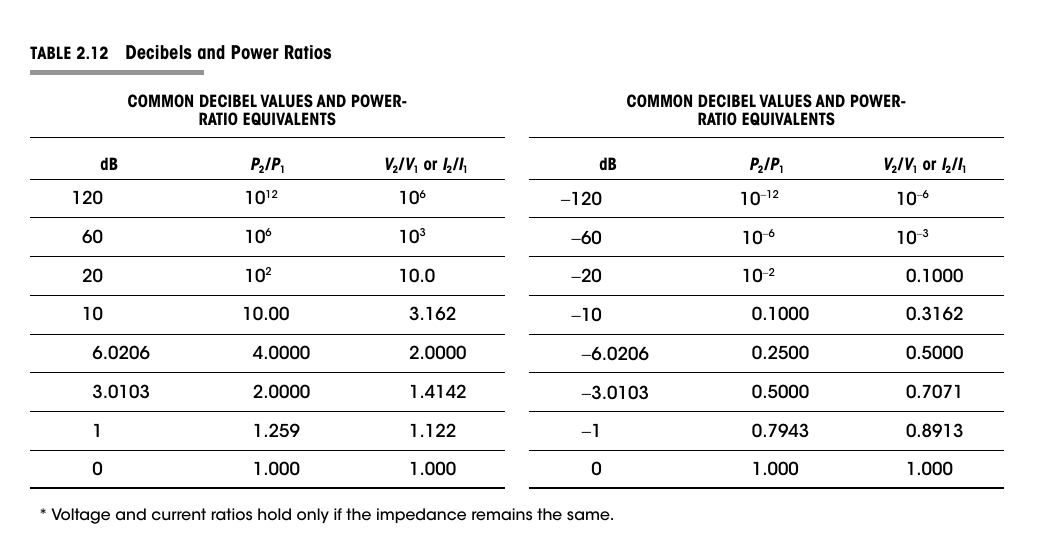
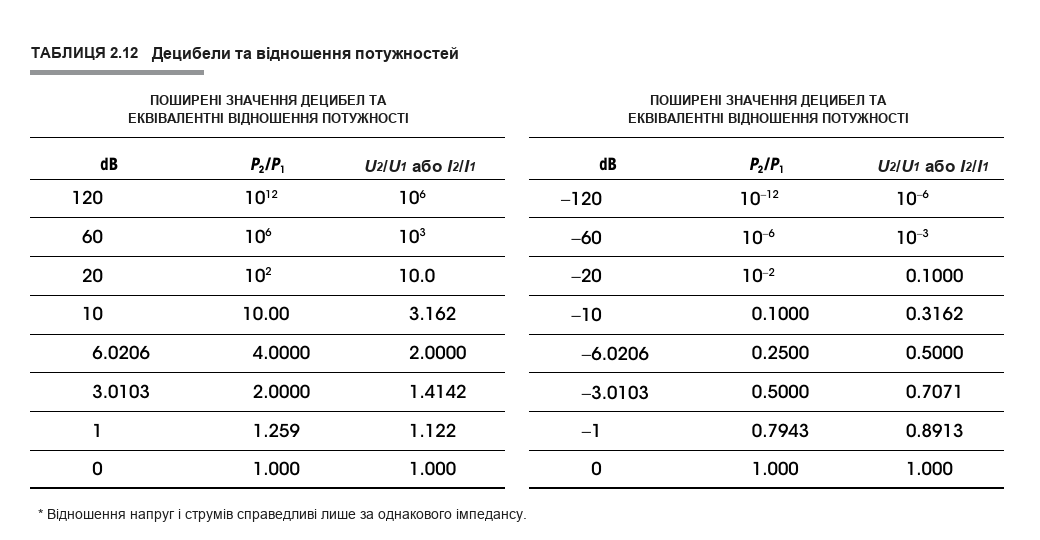
2.31: перевірка перекладу (пропуски, уточнення), переклад таблиці 2.12, V→U

diff --git a/Електроніка/2.31 Децибели.md b/Електроніка/2.31 Децибели.md
@@ -7,18 +7,18 @@
 В електроніці часто доводиться порівнювати відносні амплітуди або відносні потужності двох сигналів. Наприклад, якщо вихідна напруга підсилювача в 10 разів більша за вхідну, можна записати відношення
 
 $$
-\frac{V_{out}}{V_{in}}=\frac{10\,\mathrm{VAC}}{1\,\mathrm{VAC}}=10
+\frac{U_{out}}{U_{in}}=\frac{10\,\mathrm{VAC}}{1\,\mathrm{VAC}}=10
 $$
 
 і дати йому спеціальну назву — **підсилення**. Якщо вихідна напруга пристрою у 10 разів менша за вхідну, коефіцієнт підсилення буде меншим за 1:
 
 $$
-\frac{V_{out}}{V_{in}}=\frac{1\,\mathrm{VAC}}{10\,\mathrm{VAC}}=0.10.
+\frac{U_{out}}{U_{in}}=\frac{1\,\mathrm{VAC}}{10\,\mathrm{VAC}}=0.10.
 $$
 
 У цьому випадку відношення називають **ослабленням**.
 
-Відношення для порівняння сигналів або потужностей використовують постійно, і не лише в електроніці. Але інколи діапазон відношень амплітуд чи потужностей стає незручно великим. Наприклад, людське вухо сприймає інтенсивність звуку — середню потужність на одиницю площі повітряної хвилі — приблизно від $10^{-12}$ до $1\,\mathrm{W/m^2}$. Побудувати звичайний лінійний графік інтенсивності залежно, скажімо, від відстані між вухом і гучномовцем складно, особливо якщо точки лежать на протилежних кінцях шкали: роздільна здатність стає неприйнятною. Можна використати спеціальний логарифмічний папір або спершу логарифмічно «стиснути» числа й залишити звичайну лінійну шкалу. Для цього застосовують децибели.
+Відношення для порівняння сигналів або потужностей використовують постійно, і не лише в електроніці. Але інколи діапазон відношень амплітуд чи потужностей стає незручно великим. Наприклад, людське вухо сприймає інтенсивність звуку — середню потужність на одиницю площі повітряної хвилі — приблизно від $10^{-12}$ до $1\,\mathrm{W/m^2}$. Побудувати звичайний лінійний графік інтенсивності залежно, скажімо, від відстані між вухом і гучномовцем складно, особливо якщо точки лежать на протилежних кінцях шкали: роздільна здатність стає неприйнятною. Можна використати спеціальний логарифмічний папір, який автоматично усуває цю проблему, або спершу логарифмічно «стиснути» числа й залишити звичайну лінійну шкалу. Для цього застосовують децибели.
 
 Почнемо з **бела**. Бел визначають як десятковий логарифм відношення потужностей. Він дає змогу порівнювати два рівні потужності або певний рівень з опорним:
 
@@ -28,7 +28,7 @@ $$
 
 де $P_0$ — опорна потужність, а $P_1$ — потужність, яку з нею порівнюють.
 
-В електроніці бел можна використовувати для порівняння електричних потужностей, однак значно частіше застосовують **децибел**, скорочено dB. Один децибел дорівнює $1/10$ бела; десять децибелів утворюють один бел. Тому відношення потужностей у децибелах дорівнює
+В електроніці бел можна використовувати для порівняння електричних потужностей, однак значно частіше застосовують **децибел**, скорочено dB. Один децибел дорівнює $1/10$ бела (як міліметр — $1/10$ сантиметра); десять децибелів утворюють один бел. Тому відношення потужностей у децибелах дорівнює
 
 $$
 \mathrm{dB}=10\log_{10}\left(\frac{P_1}{P_0}\right). \tag{2.89}
@@ -50,14 +50,14 @@ $$
 Іноді під час порівняння рівнів сигналу відомі напруга або струм, але не потужність. Потужність можна обчислити за імпедансом, однак зручніше підставити закон Ома для змінного струму безпосередньо у формулу децибелів. Нагадаємо:
 
 $$
-P=\frac{V^2}{Z}=I^2Z.
+P=\frac{U^2}{Z}=I^2Z.
 $$
 
 Такий перехід справедливий лише тоді, коли імпеданс кола не змінюється між двома вимірюваннями. За однакового імпедансу для напруги маємо
 
 $$
-\mathrm{dB}=10\log_{10}\left(\frac{V_1^2}{V_0^2}\right)
-=20\log_{10}\left(\frac{V_1}{V_0}\right),
+\mathrm{dB}=10\log_{10}\left(\frac{U_1^2}{U_0^2}\right)
+=20\log_{10}\left(\frac{U_1}{U_0}\right),
 $$
 
 а для струму
@@ -70,18 +70,18 @@ $$
 Тут використано властивості логарифмів, щоб винести квадрат:
 
 $$
-10\log_{10}\left(\frac{V_1^2}{V_0^2}\right)
-=10(\log_{10}V_1^2-\log_{10}V_0^2)
+10\log_{10}\left(\frac{U_1^2}{U_0^2}\right)
+=10(\log_{10}U_1^2-\log_{10}U_0^2)
 $$
 
 $$
-=10(2\log_{10}V_1-2\log_{10}V_0)
-=20\log_{10}\left(\frac{V_1}{V_0}\right).
+=10(2\log_{10}U_1-2\log_{10}U_0)
+=20\log_{10}\left(\frac{U_1}{U_0}\right).
 $$
 
 Імпеданси скорочуються, а множник перед логарифмом стає удвічі більшим саме через квадрати. Формули для потужності, напруги й струму фундаментально однакові: усі вони походять від відношення потужностей.
 
-Є кілька співвідношень, які варто навчитися впізнавати без калькулятора. Якщо потужність подвоюється, кінцева потужність завжди у 2 рази більша за початкову — незалежно від того, чи це перехід від 1 до 2 W, від 40 до 80 W або від 500 до 1000 W. У децибелах:
+Є кілька співвідношень, які варто навчитися впізнавати без калькулятора. Якщо потужність подвоюється, кінцева потужність завжди у 2 рази більша за початкову (або опорну) — незалежно від того, чи це перехід від 1 до 2 W, від 40 до 80 W або від 500 до 1000 W. У децибелах:
 
 $$
 10\log_{10}(2)=3.01\,\mathrm{dB}.
@@ -89,21 +89,21 @@ $$
 
 Отже, подвоєння вихідної потужності означає підсилення $3.01\,\mathrm{dB}$. Зазвичай сотими нехтують і кажуть просто **збільшення на 3 dB**.
 
-Якщо потужність зменшити вдвічі, відношення завжди дорівнює $0.5$, незалежно від конкретних ватів:
+Якщо потужність зменшити вдвічі, відношення завжди дорівнює $0.5$ (або $1/2$); неважливо, чи це перехід від 1000 до 500 W, від 80 до 40 W або від 2 до 1 W — відношення все одно $0.5$. У децибелах:
 
 $$
 10\log_{10}(0.5)=-3.01\,\mathrm{dB}.
 $$
 
-Знак «мінус» указує на зменшення потужності. На практиці кажуть «зміна $-3\,\mathrm{dB}$» або, логічніше, «зменшення на $3\,\mathrm{dB}$» — слово «зменшення» вже передає знак.
+Знак «мінус» указує на зменшення потужності. І знову ж таки, сотими частками зазвичай нехтують і кажуть «зміна $-3\,\mathrm{dB}$» або, логічніше, «зменшення на $3\,\mathrm{dB}$» — слово «зменшення» вже передає знак.
 
-Якщо потужність збільшилася в 4 рази, формулу можна не обчислювати: це два послідовні подвоєння,
+Якщо потужність збільшити в 4 рази, можна обійтися без формули децибелів і просто вважати це двома послідовними подвоєннями:
 
 $$
 3.01+3.01=6.02\,\mathrm{dB}\approx6\,\mathrm{dB}.
 $$
 
-Далі в оригіналі сказано: якщо збільшити потужність у 8 разів, це нібито чотири подвоєння, тому
+Так само, якщо збільшити потужність у 8 разів, то фактично вона подвоюється чотири рази, тому відношення в децибелах дорівнює
 
 $$
 3.01\times4=12.04\,\mathrm{dB}\approx12\,\mathrm{dB}.
@@ -112,19 +112,17 @@ $$
 > [!warning] Помилка в оригіналі
 > Це твердження підручника помилкове: $8=2^3$, тому збільшення у 8 разів — три подвоєння, а правильне значення дорівнює $3.01\times3=9.03\,\mathrm{dB}$. Чотири подвоєння дають множник $16$ і приблизно $12.04\,\mathrm{dB}$.
 
-Те саме стосується зменшення. Кожне ділення потужності навпіл — це приблизно $-3\,\mathrm{dB}$. Зменшення у 4 рази дорівнює двом послідовним діленням навпіл, тобто
+Те саме стосується зменшення. Кожне ділення потужності навпіл — це приблизно $-3\,\mathrm{dB}$. Зменшення потужності в 4 рази подібне до двох послідовних ділень навпіл, тобто $3.01+3.01\,\mathrm{dB}=6.02\,\mathrm{dB}$, або приблизно $6\,\mathrm{dB}$ зменшення. І тут можна не вживати слово «зменшення», а просто сказати, що зміна становить $-6\,\mathrm{dB}$.
 
-$$
--3.01-3.01=-6.02\,\mathrm{dB}\approx-6\,\mathrm{dB}.
-$$
-
-Таблиця 2.12 показує відповідність між поширеними значеннями децибелів і змінами потужності, напруги та струму. Відношення напруг і струмів справедливі лише за однакового імпедансу.
+Таблиця 2.12 показує відповідність між кількома поширеними значеннями децибелів і пов’язаною з ними зміною потужності. Зміни струму й напруги також наведено, але вони справедливі лише тоді, коли імпеданс однаковий для обох значень.
 
 ![[Зображення/Розділ 2/Таблиця 2.12 Децибели та відношення потужностей.png]]
 
 #### Таблиця 2.12. Децибели та відношення потужностей
 
-| dB | $P_2/P_1$ | $V_2/V_1$ або $I_2/I_1$ | dB | $P_2/P_1$ | $V_2/V_1$ або $I_2/I_1$ |
+**Поширені значення децибел та еквівалентні відношення потужності**
+
+| dB | $P_2/P_1$ | $U_2/U_1$ або $I_2/I_1$ | dB | $P_2/P_1$ | $U_2/U_1$ або $I_2/I_1$ |
 |---:|---:|---:|---:|---:|---:|
 | 120 | $10^{12}$ | $10^6$ | -120 | $10^{-12}$ | $10^{-6}$ |
 | 60 | $10^6$ | $10^3$ | -60 | $10^{-6}$ | $10^{-3}$ |
@@ -134,6 +132,8 @@ $$
 | 3.0103 | 2.0000 | 1.4142 | -3.0103 | 0.5000 | 0.7071 |
 | 1 | 1.259 | 1.122 | -1 | 0.7943 | 0.8913 |
 | 0 | 1.000 | 1.000 | 0 | 1.000 | 1.000 |
+
+\* Відношення напруг і струмів справедливі лише за однакового імпедансу.
 
 ### 2.31.1 Альтернативні позначення децибелів
 
@@ -154,7 +154,7 @@ $$
 - **dBV** — напруга відносно $1\,\mathrm V$; порівняння через потужність потребує однакових імпедансів;
 - **dB SPL** — рівень звукового тиску відносно $20\,\mathrm{\mu Pa}$.
 
-Отже, додаткова літера після `dB` указує, що задано конкретну опорну величину. Термін «децибел» широко застосовують і в акустиці.
+Отже, щоразу, коли після dB стоїть ще одна літера, це означає, що задано певну опорну величину. Термін «децибел» також використовують у контексті звуку (див. розд. 15.1).
 
 ## Примітки до перекладу
 
@@ -162,7 +162,10 @@ $$
 > Звичайне `dB` описує відношення двох рівнів. Позначення `dBm`, `dBW`, `dBV`, `dBi` тощо містять визначену опору й тому задають рівень відносно неї.
 
 > [!warning] Умова однакового імпедансу
-> Формули $20\log(V_1/V_0)$ і $20\log(I_1/I_0)$ можна безпосередньо пов’язувати з відношенням потужностей лише тоді, коли порівнювані імпеданси однакові.
+> Формули $20\log(U_1/U_0)$ і $20\log(I_1/I_0)$ можна безпосередньо пов’язувати з відношенням потужностей лише тоді, коли порівнювані імпеданси однакові.
+
+> [!warning] Друкарська помилка в оригіналі
+> У виведенні формули (2.90) оригінал пише $20(\log U_1-\log U_2)$; правильно — $20(\log U_1-\log U_0)$. У перекладі виправлено.
 
 > [!note] Логарифм
 > У формулах цього розділу `log` означає десятковий логарифм $\log_{10}$.
@@ -176,7 +179,7 @@ $$
 $$
 
 $$
-\boxed{\mathrm{dB}=20\log_{10}\left(\frac{V_1}{V_0}\right)}
+\boxed{\mathrm{dB}=20\log_{10}\left(\frac{U_1}{U_0}\right)}
 \quad\text{за однакового }Z
 $$
 
@@ -224,7 +227,7 @@ $$
 З децибелів до відношення напруг або струмів:
 
 $$
-\frac{V_1}{V_0}=10^{\mathrm{dB}/20},
+\frac{U_1}{U_0}=10^{\mathrm{dB}/20},
 \qquad
 \frac{I_1}{I_0}=10^{\mathrm{dB}/20}.
 $$
@@ -271,7 +274,7 @@ $$
 4. Яка зміна потужності відповідає $-3\,\mathrm{dB}$?
 5. Яка зміна напруги відповідає $+20\,\mathrm{dB}$ за сталого імпедансу?
 6. Обчисли підсилення в dB для $P_{out}/P_{in}=25$.
-7. Обчисли зміну в dB для $V_{out}/V_{in}=0.25$ за однакового імпедансу.
+7. Обчисли зміну в dB для $U_{out}/U_{in}=0.25$ за однакового імпедансу.
 8. Перетвори $-30\,\mathrm{dBm}$ у потужність.
 9. Яка різниця між dB, dBm, dBW та dBV?
 10. Два каскади мають підсилення $12\,\mathrm{dB}$ і $8\,\mathrm{dB}$, а фільтр — втрати $5\,\mathrm{dB}$. Яке загальне підсилення?
